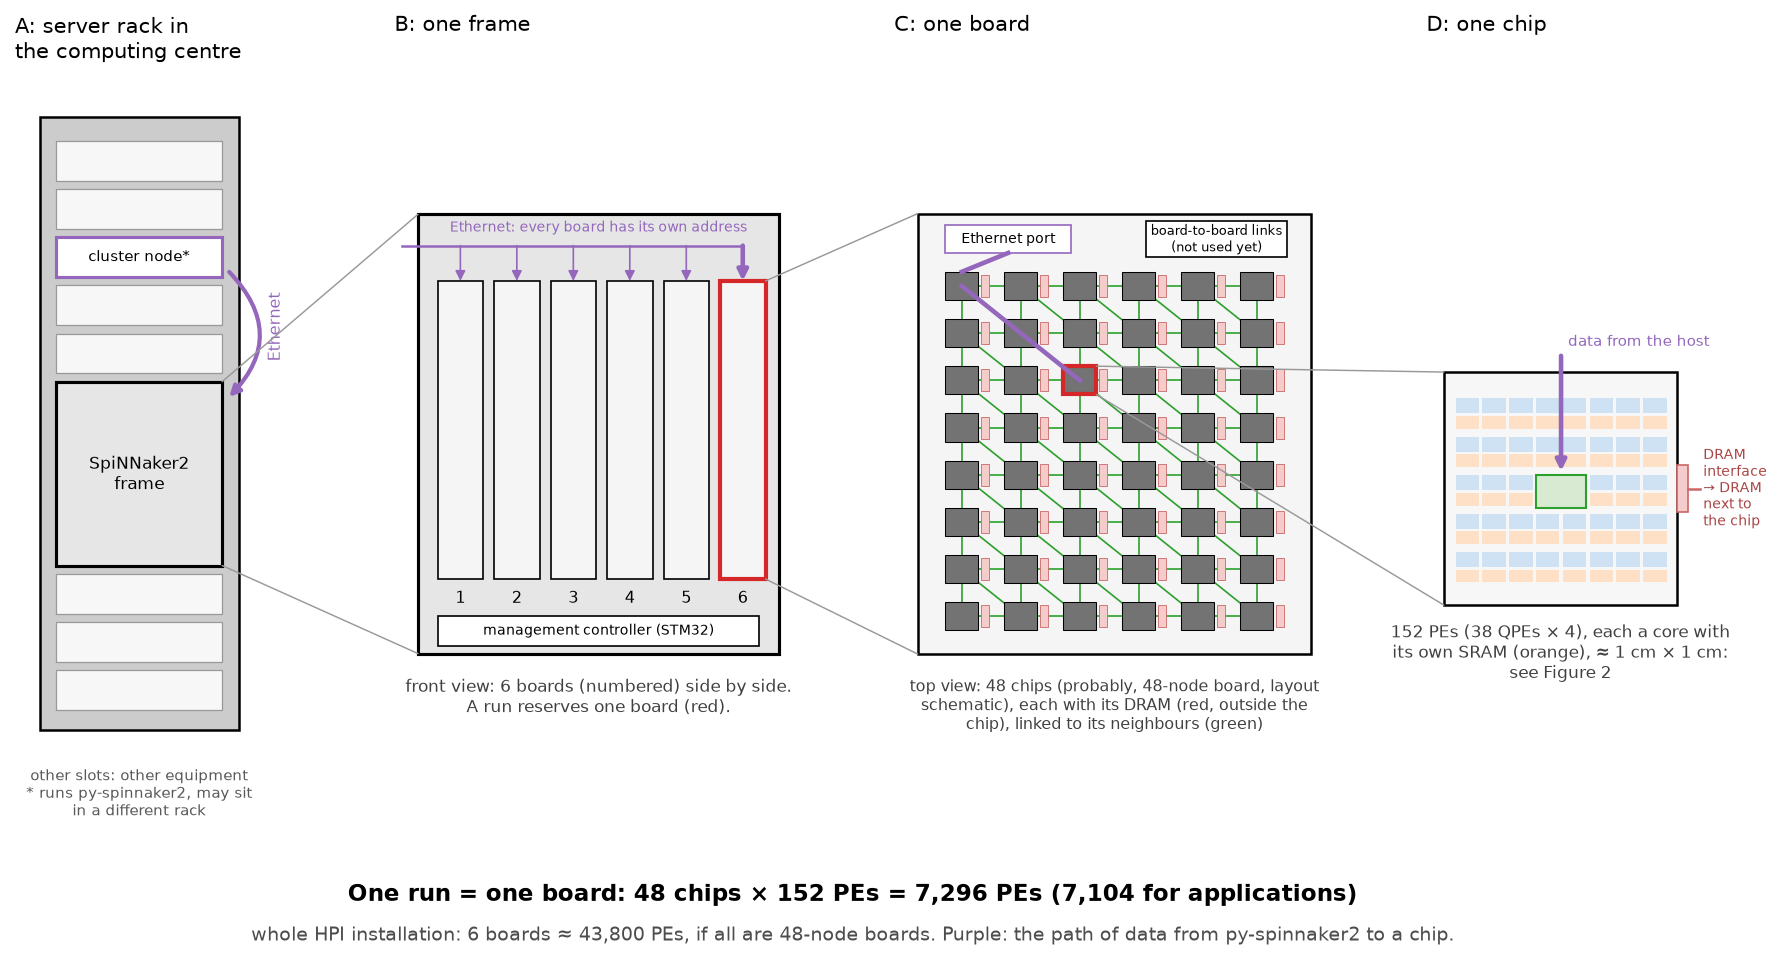
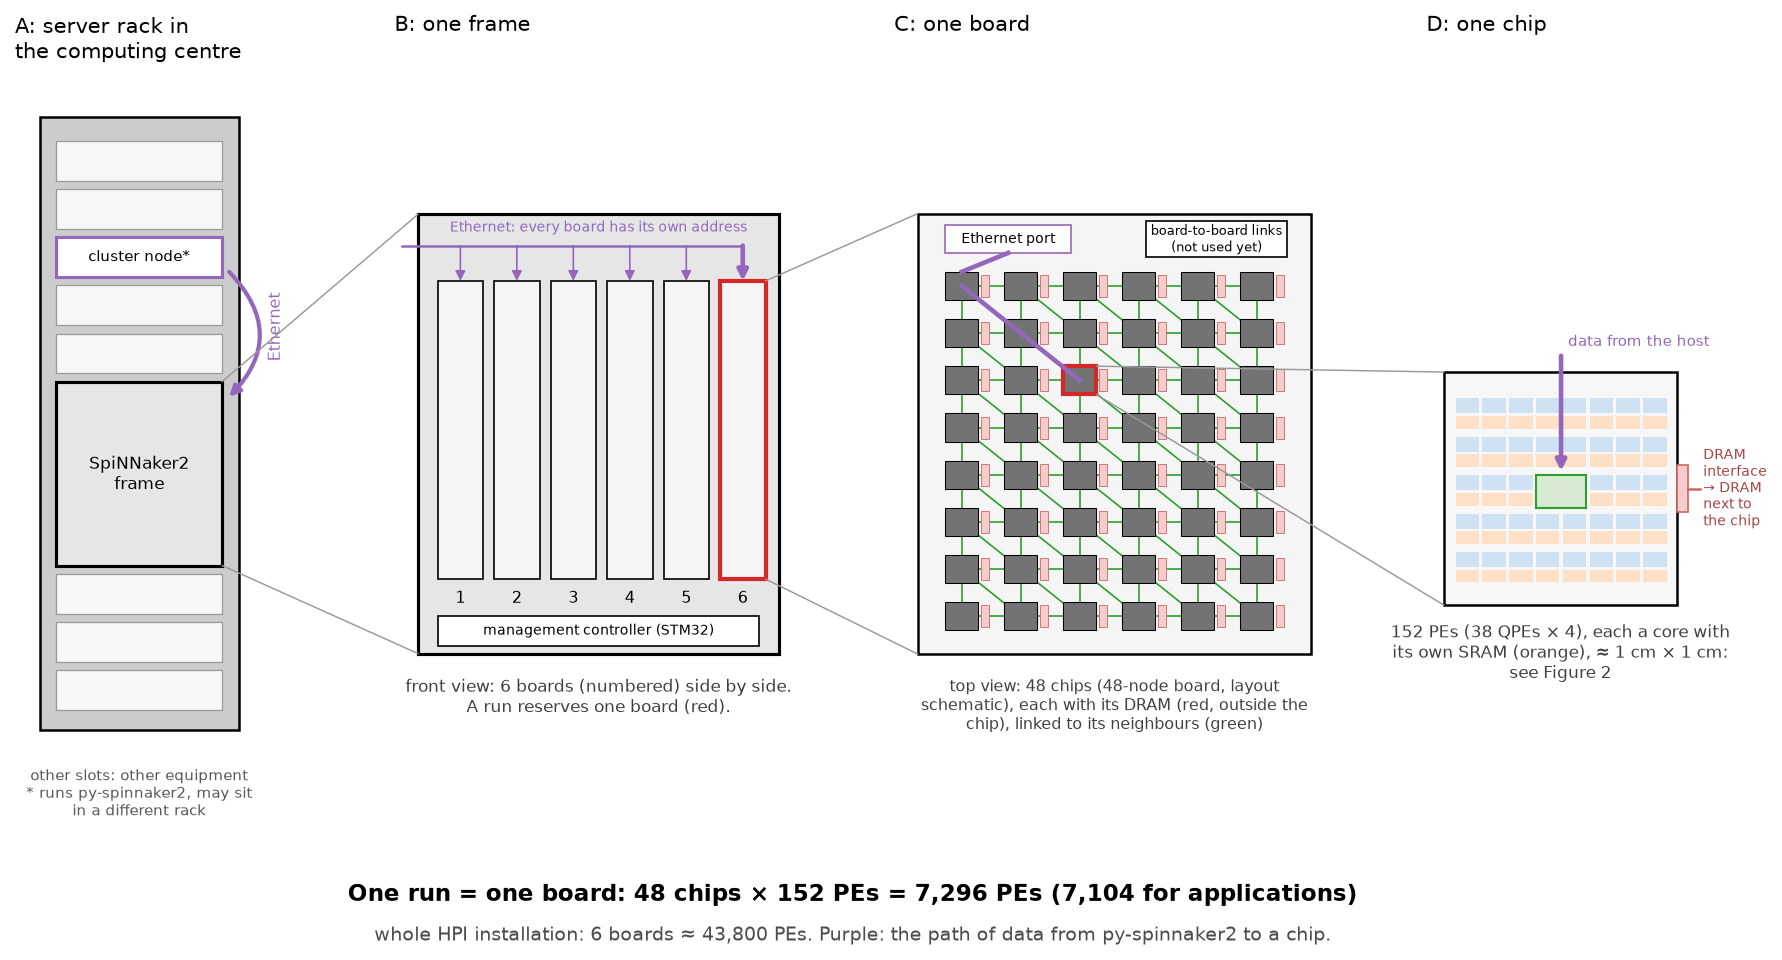
Drop 'probably' from the board type in Figure 1 of note 02
The 48-node board type is confirmed on the cluster. Only Figure 1 is
regenerated; the other PNGs differ by font rendering on Linux and are
left as they were.

Changed region(s): [[0.1543, 0.9688, 0.8025, 1.0], [0.5247, 0.6875, 0.7407, 0.7188]]

diff --git a/01_knowledge_base/figures/02_hardware_energy/make_figures.py b/01_knowledge_base/figures/02_hardware_energy/make_figures.py
@@ -116,7 +116,7 @@ def fig_installation():
     path = [pos[(7, 0)], pos[(6, 1)], pos[(5, 2)]]  # host packets enter at a chip and travel over the links
     ax_b.plot([1.15, path[0][0] + 0.21], [5.1, path[0][1] + 0.36], color=ETH, lw=2.2, zorder=4)
     ax_b.plot([p[0] + 0.21 for p in path], [p[1] + 0.18 for p in path], color=ETH, lw=2.2, zorder=4)
-    ax_b.text(2.5, -0.3, "top view: 48 chips (probably, 48-node board, layout\nschematic), each with its DRAM (red, outside the\n"
+    ax_b.text(2.5, -0.3, "top view: 48 chips (48-node board, layout\nschematic), each with its DRAM (red, outside the\n"
               "chip), linked to its neighbours (green)", ha="center", va="top", fontsize=7.5, color="0.25")
     ax_b.set_xlim(-0.3, 5.3)
     ax_b.set_ylim(-1.4, 6.2)
@@ -155,7 +155,7 @@ def fig_installation():
         fig.text(ax.get_position().x0, 0.95, t, fontsize=10, va="top")
     fig.text(0.5, 0.055, "One run = one board: 48 chips × 152 PEs = 7,296 PEs (7,104 for applications)",
              ha="center", fontsize=11, fontweight="bold")
-    fig.text(0.5, 0.015, "whole HPI installation: 6 boards ≈ 43,800 PEs, if all are 48-node boards. "
+    fig.text(0.5, 0.015, "whole HPI installation: 6 boards ≈ 43,800 PEs. "
              "Purple: the path of data from py-spinnaker2 to a chip.", ha="center", fontsize=9, color="0.3")
     fig.savefig(OUT / "01_installation_hierarchy.png", bbox_inches="tight")
     plt.close(fig)

diff --git a/01_knowledge_base/02_hardware_energy.md b/01_knowledge_base/02_hardware_energy.md
@@ -27,7 +27,7 @@ Physically, the chips sit on boards, and the boards in a frame in a server rack 
 
 ![From the rack to the chip](figures/02_hardware_energy/01_installation_hierarchy.png)
 
-***Figure 1.** Where the chips physically are, and how data from py-spinnaker2 reaches them (purple). A: the SpiNNaker2 frame is mounted in a server rack of the computing centre. py-spinnaker2 runs on a cluster node, which talks to the frame via Ethernet. B: the frame, seen from the front, holds 6 boards side by side, each with its own Ethernet connection, and a management controller that switches the boards on and boots them. A run reserves one board (red). C: that board, seen from above: 48 chips (probably, as a 48-node board), each with its own DRAM (red), which consists of separate memory chips next to it on the board. The chips are connected to their neighbours by links on the board (green). Each chip has 6 links: on the square grid of the drawing, these are the 4 horizontal and vertical neighbours plus one diagonal direction, which together form the hexagonal grid of the chip paper. Data from the host enters at a chip and travels over these links to the chips that need it. D: one of these chips, about 1 cm × 1 cm, with its 152 processing elements and their local SRAM (orange), shown in detail in Figure 2. The DRAM itself is outside the chip; on the chip sits only its interface (red, at the edge). Colours as in Figure 2: orange for on-chip SRAM, red for off-chip DRAM and its interface. For users, the relevant size is one board: 7,296 PEs, of which 7,104 are available to a run. **Source:** Diagram. Numbers from the HPI installation (boot log and vendor, see section 5) and the chip paper (die size 102 mm²). That the host talks to the board through one chip follows from the py-spinnaker2 code, which addresses the board through chip (0, 0). The number of chips per board, the arrangement of chips and links on the board and the position of the cluster node are not confirmed yet, the layout is schematic.*
+***Figure 1.** Where the chips physically are, and how data from py-spinnaker2 reaches them (purple). A: the SpiNNaker2 frame is mounted in a server rack of the computing centre. py-spinnaker2 runs on a cluster node, which talks to the frame via Ethernet. B: the frame, seen from the front, holds 6 boards side by side, each with its own Ethernet connection, and a management controller that switches the boards on and boots them. A run reserves one board (red). C: that board, seen from above: 48 chips (a 48-node board), each with its own DRAM (red), which consists of separate memory chips next to it on the board. The chips are connected to their neighbours by links on the board (green). Each chip has 6 links: on the square grid of the drawing, these are the 4 horizontal and vertical neighbours plus one diagonal direction, which together form the hexagonal grid of the chip paper. Data from the host enters at a chip and travels over these links to the chips that need it. D: one of these chips, about 1 cm × 1 cm, with its 152 processing elements and their local SRAM (orange), shown in detail in Figure 2. The DRAM itself is outside the chip; on the chip sits only its interface (red, at the edge). Colours as in Figure 2: orange for on-chip SRAM, red for off-chip DRAM and its interface. For users, the relevant size is one board: 7,296 PEs, of which 7,104 are available to a run. **Source:** Diagram. Numbers from the HPI installation (boot log and vendor, see section 5) and the chip paper (die size 102 mm²). That the host talks to the board through one chip follows from the py-spinnaker2 code, which addresses the board through chip (0, 0). The arrangement of chips and links on the board and the position of the cluster node are not confirmed yet, the layout is schematic.*
 
 ![Schematic of the SpiNNaker2 chip](figures/02_hardware_energy/01_chip_schematic.png)
 
